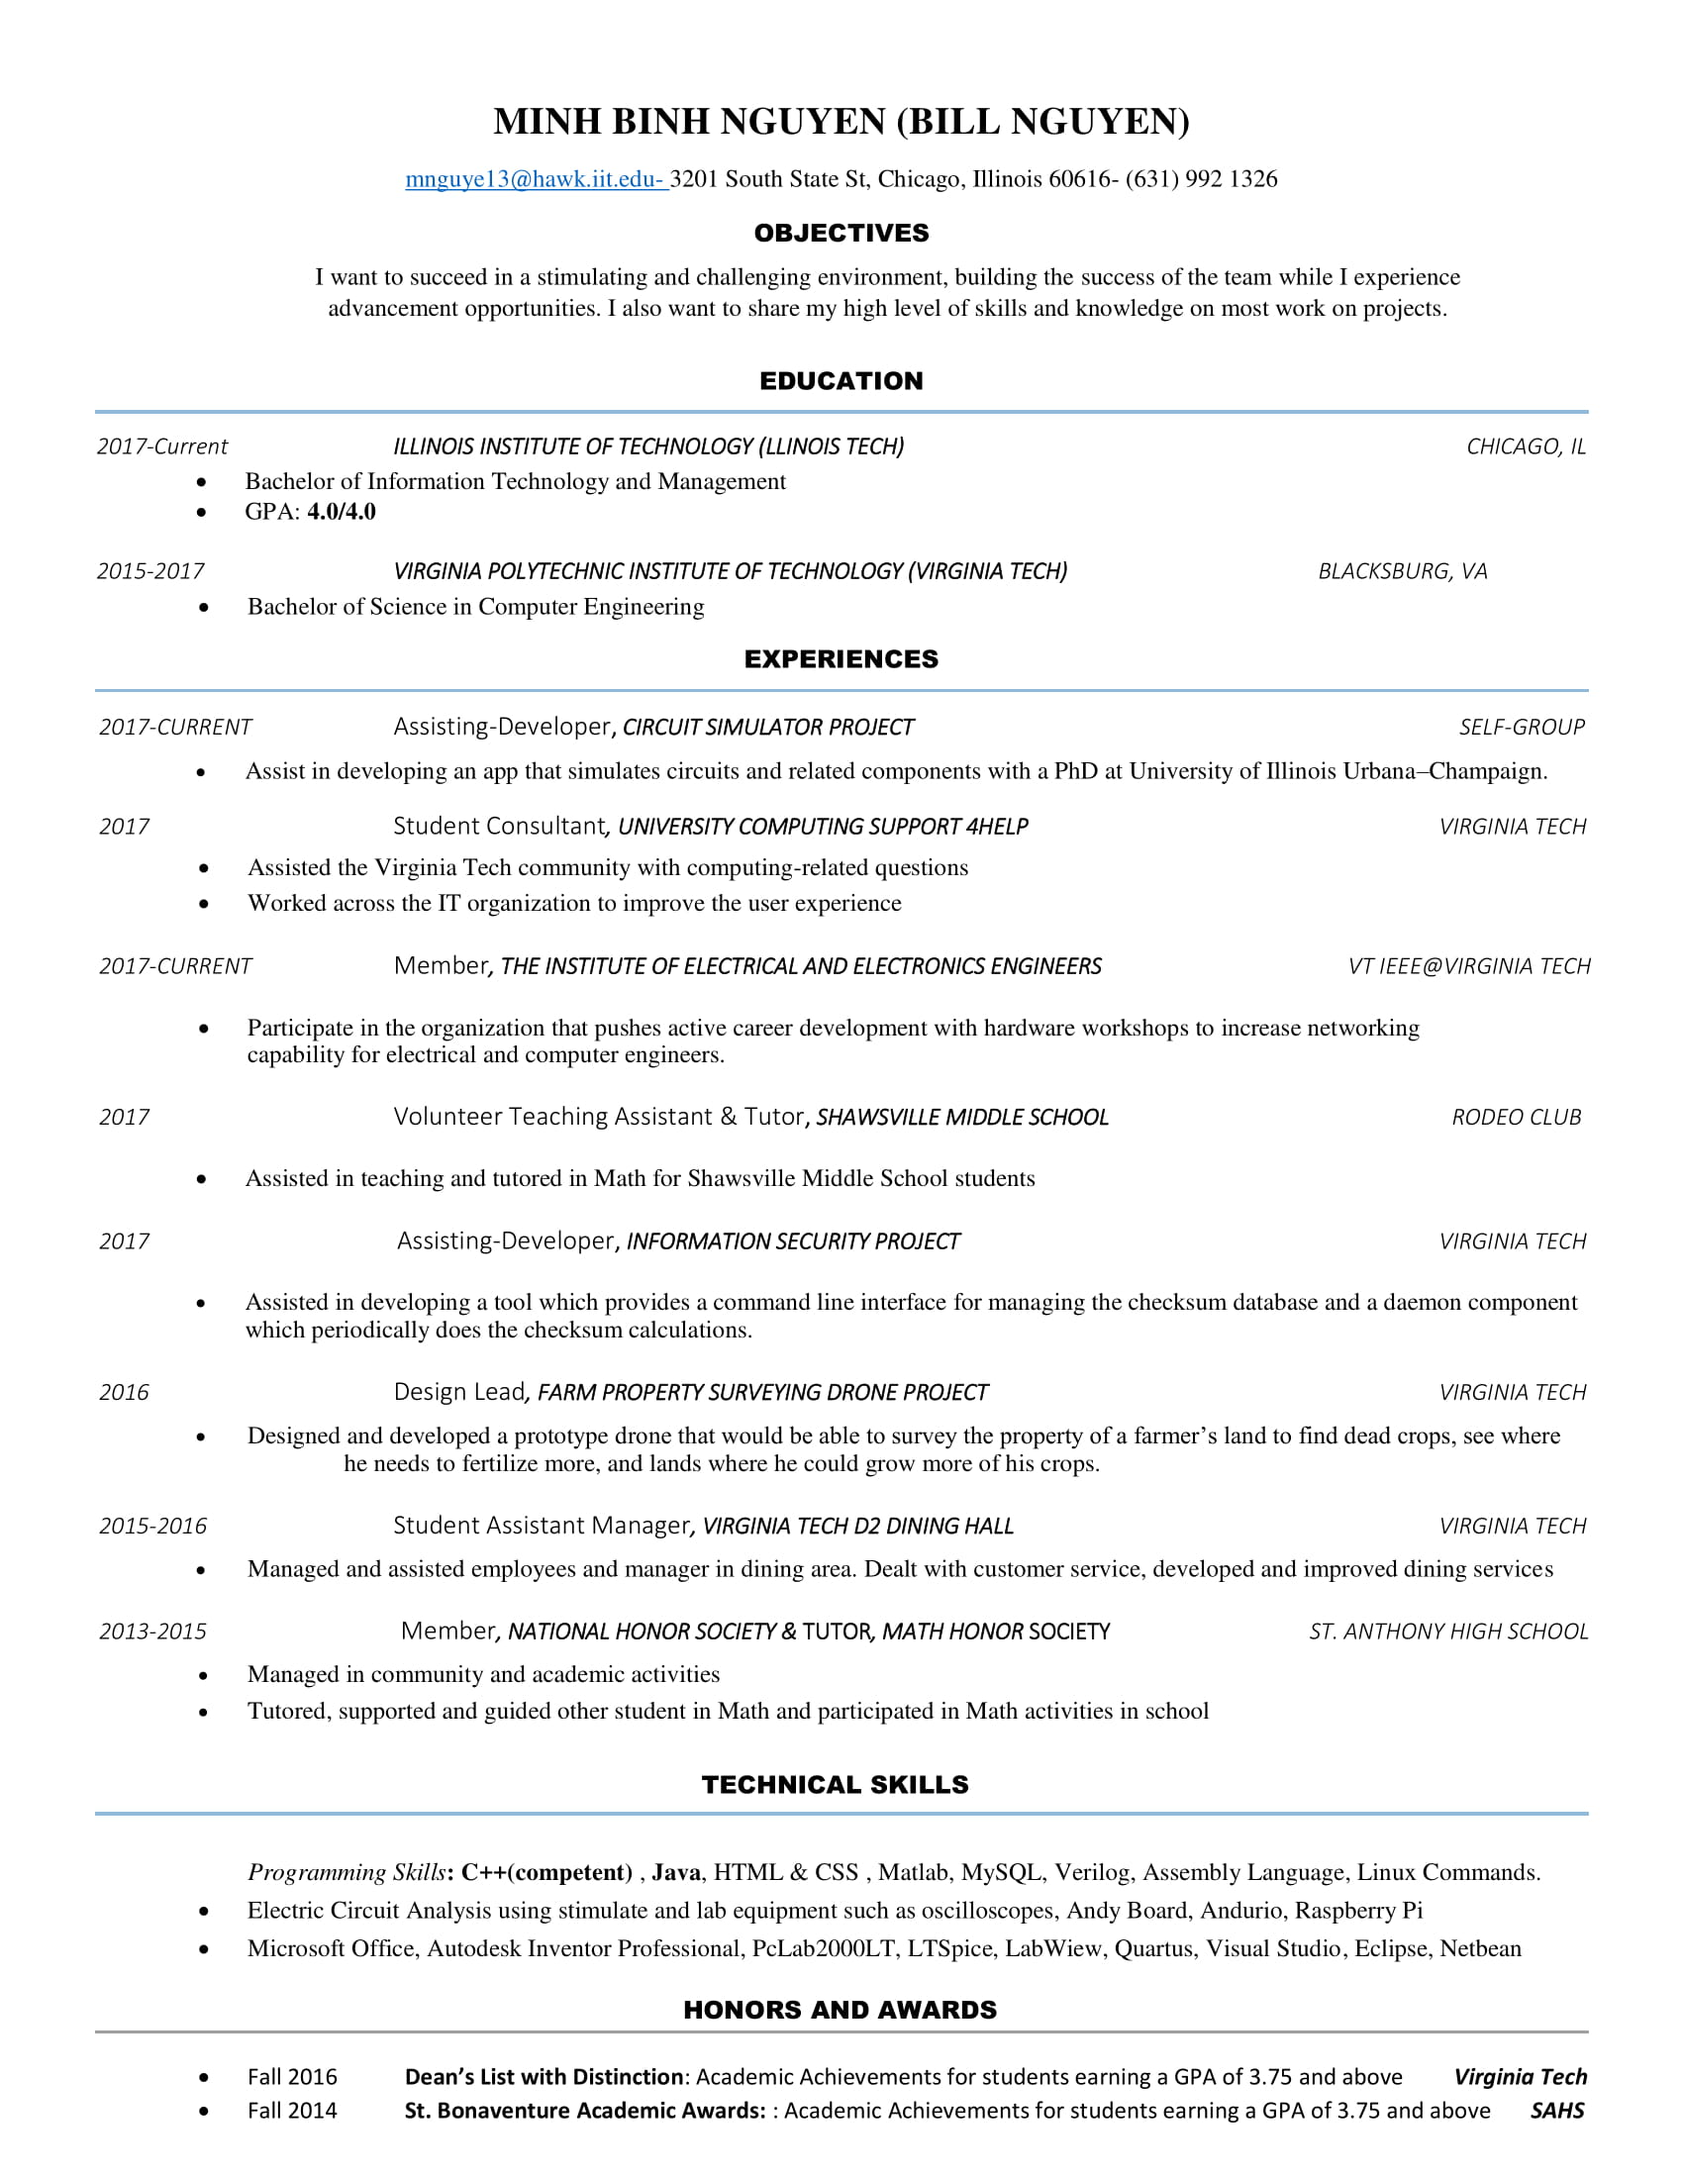
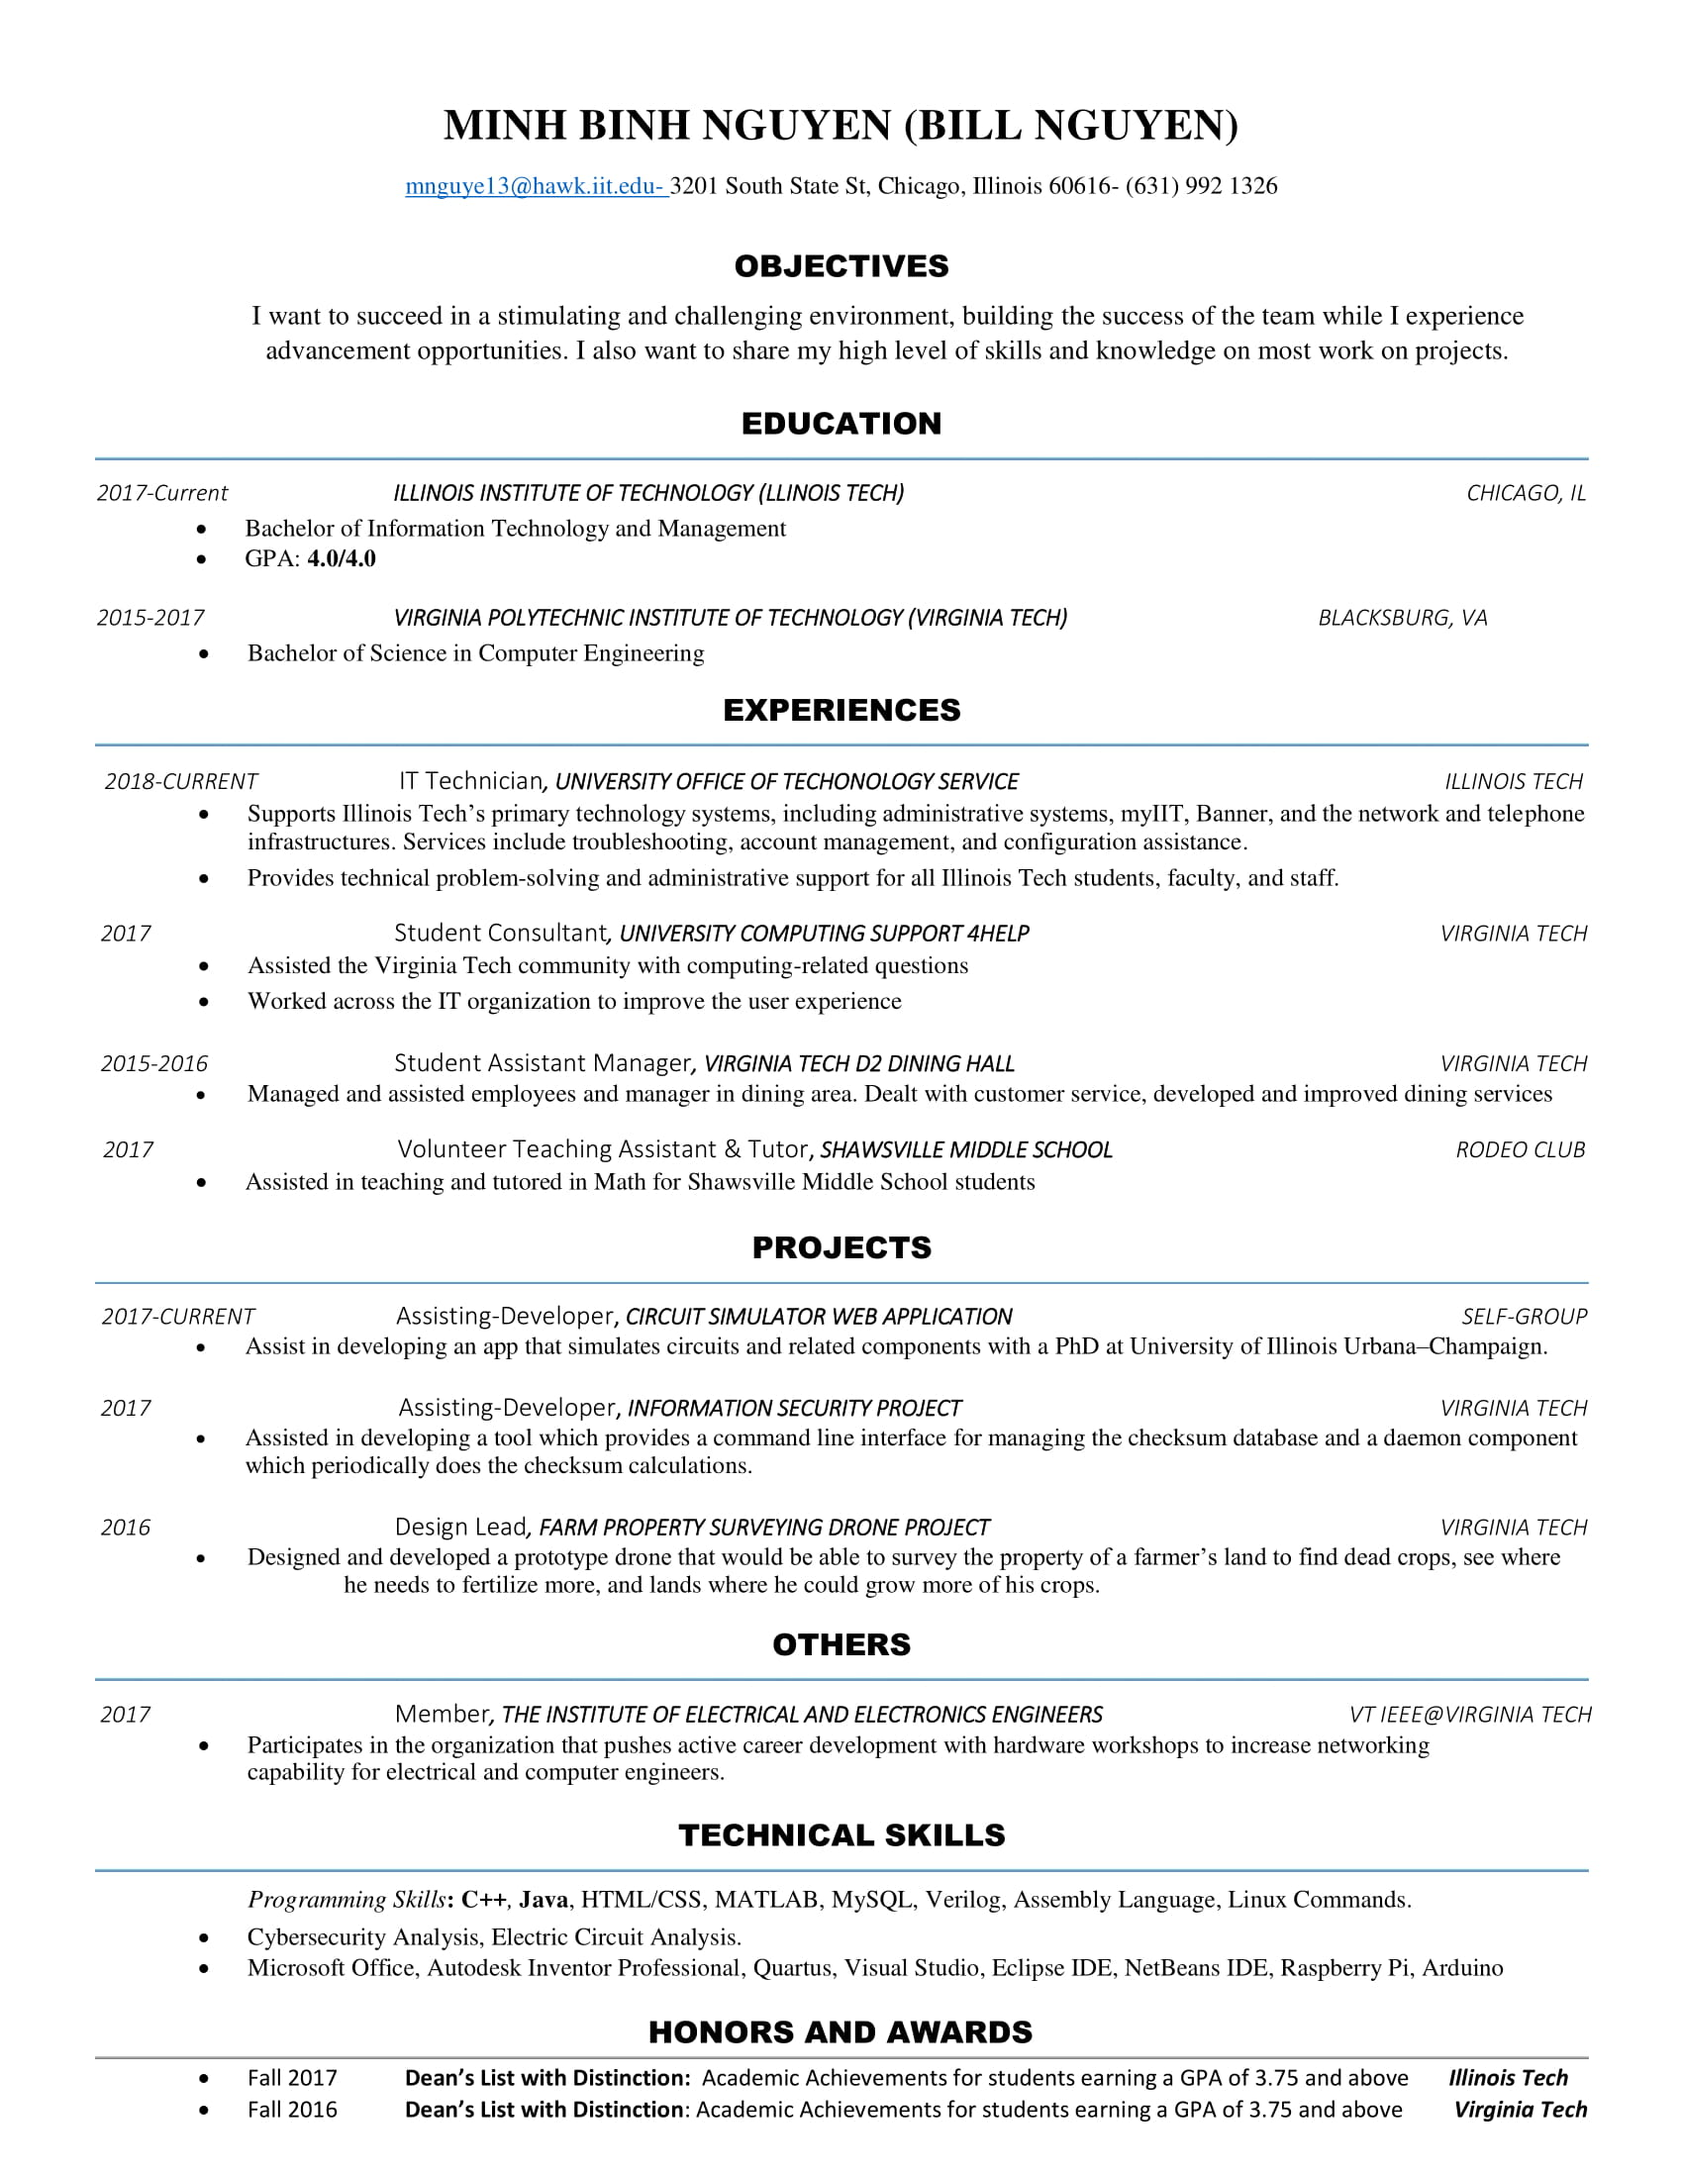
Fix resume.html

diff --git a/resume.html b/resume.html
@@ -14,9 +14,78 @@
     </ul>
   </header>
 
-  <article>
+  <section>
     <h2>Resume</h2>
+    <h3>MINH BINH NGUYEN</h3>
+    <p>mnguye13@hawk.iit.edu- 3201 South State St, Chicago Illinois 606016- (631) 992 1326
+    <h4>OBJECTIVES</h4>
+    <p>I want to succeed in a stimulating and challenging environment, building the success of the team while I experience
+        advancement opportunities. I also want to share my high level of skills and knowledge on most work on projects.</p>
+    <h4>EDUCATION</h4>
+    <p>2017-Current---ILLINOIS INSTITUTE OF TECHNOLOGY (LLINOIS TECH)---Chicago,IL</p>
+    <ul>
+      <li>Bachelor of Information Technology and Management</li>
+      <li>GPA: 4.0/4.0</li>
+    </ul>
+    <p>2015-2017---VIRGINA POLYTECHINC INSTITUTE OF TECHNOLOGY (VIRGINIA TECH)---BLACKSBURG,VA</p>
+    <ul>
+      <li>Bachelor of Science in Computer Engineerring</li>
+      <li>GPA: 3.7/4.0</li>
+    </ul>
+    <h4>EXPERIENCES</h4>
+    <p>2018-CURRENT---IT Technician,<strong>UNIVERSITY OFFICE OF TECHNOLOGY SERVICE(OTS)</strong>---ILLINOIS TECH</p>
+    <ul>
+      <li>Supports Illinois Tech’s primary technology systems, including administrative systems, myIIT, Banner, and the network and telephone
+          infrastructures. Services include troubleshooting, account management, and configuration assistance</li>
+      <li>Provides technical problem-solving and administrative support for all Illinois Tech students, faculty, and staff.</li>
+    </ul>
+    <p>2017---Student Consultant,<strong>UNIVERSITY COMPUTING SUPPORT 4HELP</strong>---VIRGINA TECH</p>
+    <ul>
+      <li>Assisted the Virginia Tech community with computing-related questions</li>
+      <li>Worked across the IT organization to improve the user experiences.</li>
+    </ul>
+    <p>2017---Volunteer Teaching Assistance & Tutor,<strong>SHAWSVILLE MIDDLE SCHOOL</strong>---RODEO CLUB</p>
+    <ul>
+      <li>Assisted in teaching and tutored in Math for Shawsville Middle School students</li>
+    </ul>
+    <p>2015-2016---Student Assitance Manager,<strong>VIRGINIA TECH D2 DINING HALL</strong>---VIRGINA TECH</p>
+    <ul>
+      <li>Managed and assisted employees and manager in dining area. Dealt with customer service, developed and improved dining services</li>
+    </ul>
+    <h4>PROJECTS</h4>
+    <p>2017---Assisting Developer,<strong>CIRCUIT SIMULATOR PROJECT WEB APPLICATION</strong>---SELF-GROUP</p>
+    <ul>
+      <li>Assist in developing an app that simulates circuits and related components with a PhD at University of Illinois Urbana–Champaign.</li>
+    </ul>
+    <p>2017---Assisting Developer,<strong>INFORMATION SECURITY PROJECT</strong>---VIRGINIA TECH</p>
+    <ul>
+      <li>Assisted in developing a tool which provides a command line interface for managing the checksum database and a daemon component
+          which periodically does the checksum calculations</li>
+    </ul>
+    <p>2016---Design Lead,<strong>FARM PROPERTY SURVEYING DRONE PROJECT</strong>---VIRGINIA TECH</p>
+    <ul>
+      <li>Designed and developed a prototype drone that would be able to survey the property of a farmer’s land to find dead crops, see where
+          he needs to fertilize more, and lands where he could grow more of his crops.</li>
+    </ul>
+    <h4>OTHERS</h4>
+    <p>2017---Memeber,<strong>THE INSTITUTE OF ELECTRICAL AND ELECTRONICS ENGINEERS</strong>---VIRGINIA TECH</p>
+    <ul>
+      <li>Participates in the organization that pushes active career development with hardware workshops to increase networking
+          capability for electrical and computer engineers.</li>
+    </ul>
+    <h4>TECHNICAL SKILLS</h4>
+    <ul>
+      <li>Programming Skills: C++, Java, HTML/CSS, MATLAB, MySQL, Verilog, Assembly Language, Linux Commands.</li>
+      <li>Cybersecurity Analysis, Electric Circuit Analysis</li>
+      <li>Microsoft Office, Autodesk Inventor Professional, Quartus, Visual Studio, Eclipse IDE, NetBeans IDE, Raspberry Pi, Arduino</li>
+    </ul>
+    <h4>HONORS AND AWARDS</h4>
+    <ul>
+      <li>Fall 2017---<strong>Dean’s List with Distinction</strong>: Academic Achievements for students earning a GPA of 3.75 and above---Illinios Tech</li>
+      <li>Fall 2016---<strong>Dean’s List with Distinction</strong>: Academic Achievements for students earning a GPA of 3.75 and above---Virginia Tech</li>
+    </ul>
     <img src="./resume.jpg" alt="Minh's resume">
-  </article>
+  </section>
+
 </body>
 </html>
